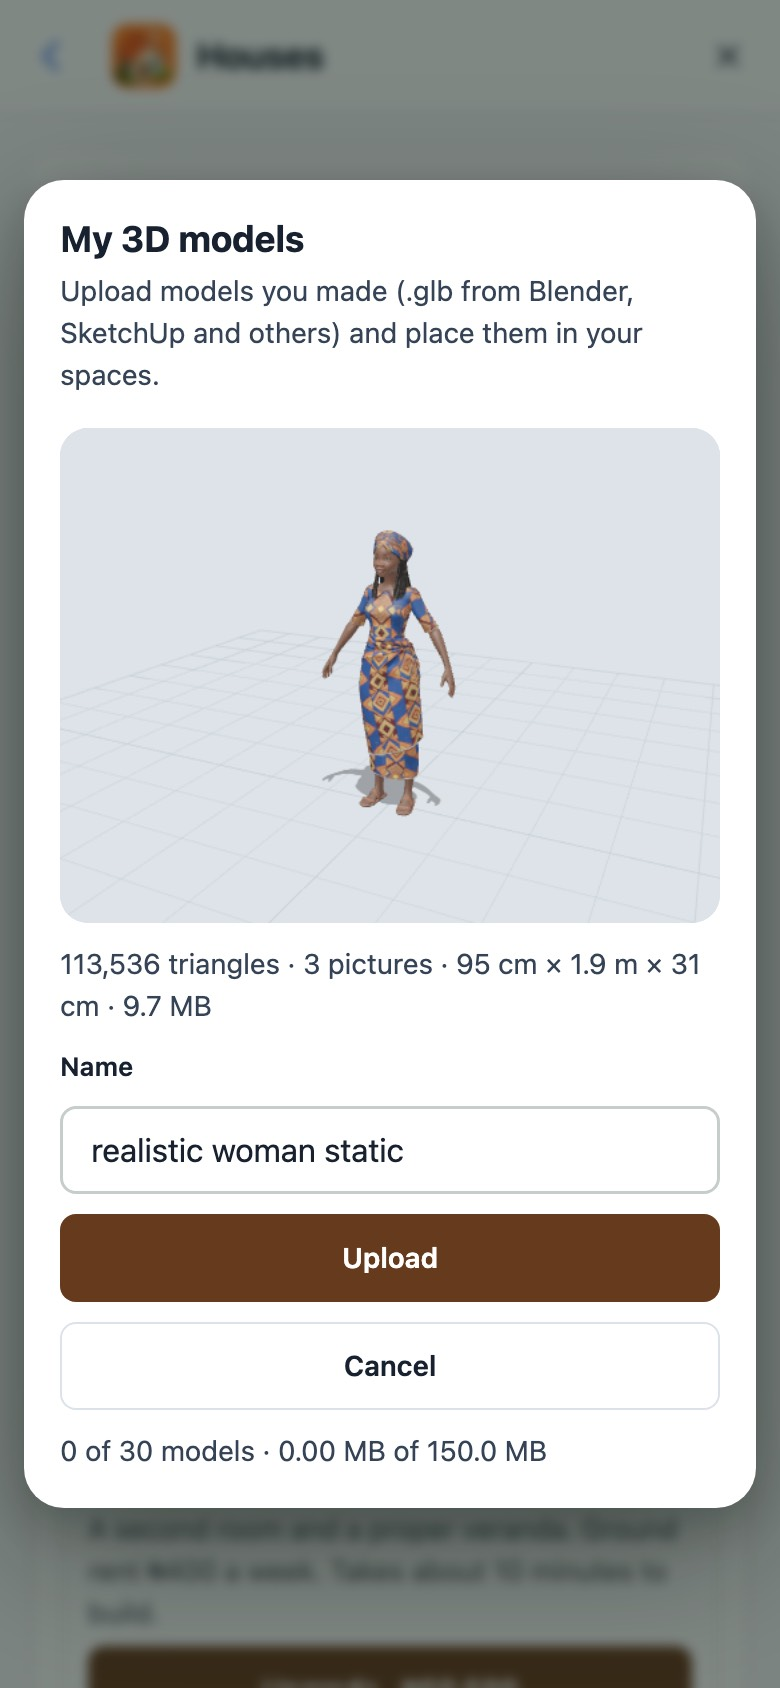
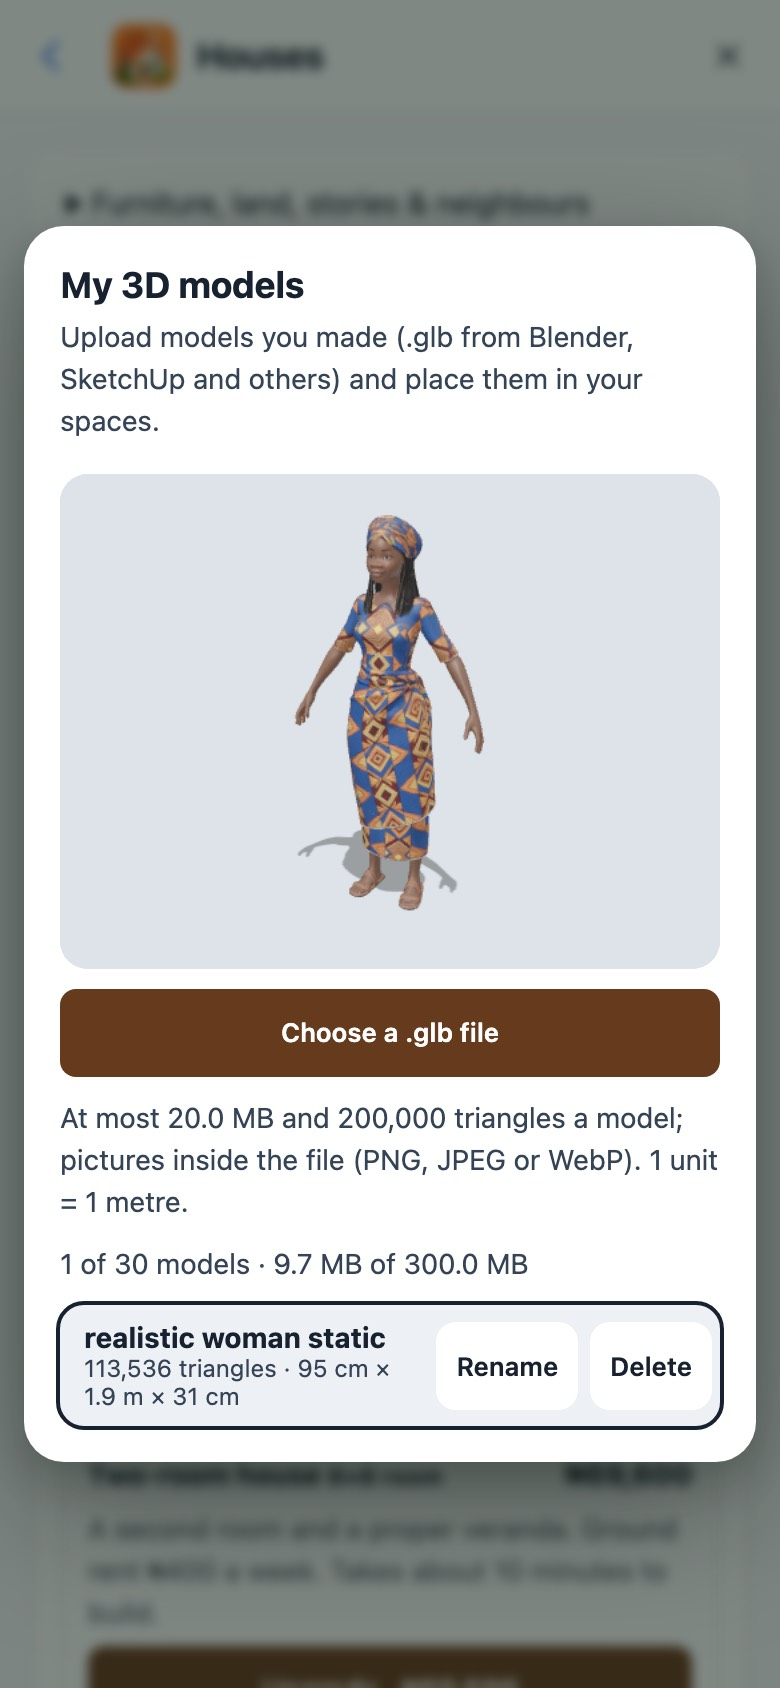
Spaces 3D: the preview loads the model loader lazily and turns with its own control, so the city scene's downloads stay the same

Changed region(s): [[0.0308, 0.0924, 0.9846, 0.8934]]

diff --git a/src/spaces/world/look.ts b/src/spaces/world/look.ts
@@ -8,8 +8,7 @@
  * with nothing before it is fetched (the server already refuses such files: src/spaces/glb.ts).
  */
 import * as THREE from 'three'
-import { GLTFLoader } from 'three/examples/jsm/loaders/GLTFLoader.js'
-import { MeshoptDecoder } from 'three/examples/jsm/libs/meshopt_decoder.module.js'
+import type { GLTFLoader } from 'three/examples/jsm/loaders/GLTFLoader.js'
 import { RoomEnvironment } from 'three/examples/jsm/environments/RoomEnvironment.js'
 
 export { THREE }
@@ -69,14 +68,16 @@ export function aimSun(look: Look, centre: THREE.Vector3, half: number): void {
   box.updateProjectionMatrix()
 }
 
-let loader: GLTFLoader | null = null
-function gltfLoader(): GLTFLoader {
-  if (loader) return loader
-  const manager = new THREE.LoadingManager()
-  // Pictures inside a .glb become blob: links the loader makes itself; anything else would be an outside fetch, so it reads nothing.
-  manager.setURLModifier((url) => (url.startsWith('blob:') || url.startsWith('data:') ? url : 'data:,'))
-  loader = new GLTFLoader(manager)
-  loader.setMeshoptDecoder(MeshoptDecoder)
+// The loader and the meshopt decoder are fetched the way the skinned body fetches them (vite.config.ts leaves them to the bundler),
+// so they stay in the body's lazy chunk and nothing the city scene loads changes.
+let loader: Promise<GLTFLoader> | null = null
+function gltfLoader(): Promise<GLTFLoader> {
+  loader ??= Promise.all([import('three/examples/jsm/loaders/GLTFLoader.js'), import('three/examples/jsm/libs/meshopt_decoder.module.js')]).then(([gltf, meshopt]) => {
+    const manager = new THREE.LoadingManager()
+    // Pictures inside a .glb become blob: links the loader makes itself; anything else would be an outside fetch, so it reads nothing.
+    manager.setURLModifier((url) => (url.startsWith('blob:') || url.startsWith('data:') ? url : 'data:,'))
+    return new gltf.GLTFLoader(manager).setMeshoptDecoder(meshopt.MeshoptDecoder)
+  })
   return loader
 }
 
@@ -86,7 +87,7 @@ export interface LoadedModel { root: THREE.Group; clips: THREE.AnimationClip[]; 
  * file are dropped: the space has its own.
  */
 export async function parseModel(bytes: ArrayBuffer, maxAnisotropy = 8): Promise<LoadedModel> {
-  const gltf = await gltfLoader().parseAsync(bytes, '')
+  const gltf = await (await gltfLoader()).parseAsync(bytes, '')
   const root = new THREE.Group()
   const content = gltf.scene
   const drop: THREE.Object3D[] = []
@@ -123,16 +124,55 @@ export function disposeTree(root: THREE.Object3D): void {
   })
 }
 
-/** A floor that only shows shadows (for a model on its own), and a soft grid under it. */
+/** A floor that only shows shadows, for a model on its own. */
 export function shadowFloor(radius = 6): THREE.Group {
   const group = new THREE.Group()
-  const floor = new THREE.Mesh(new THREE.CircleGeometry(radius, 48), new THREE.ShadowMaterial({ opacity: 0.28 }))
+  const floor = new THREE.Mesh(new THREE.PlaneGeometry(radius * 2, radius * 2), new THREE.ShadowMaterial({ opacity: 0.3 }))
   floor.rotation.x = -Math.PI / 2
   floor.receiveShadow = true
-  const grid = new THREE.GridHelper(radius * 2, Math.round(radius * 4), 0x90a4ae, 0xb0bec5)
-  ;(grid.material as THREE.Material).transparent = true
-  ;(grid.material as THREE.Material).opacity = 0.35
-  grid.position.y = 0.001
-  group.add(floor, grid)
+  group.add(floor)
   return group
+}
+
+/**
+ * Turn the camera around a point with a finger or the mouse, and come closer with a pinch or the wheel. A few lines of our own:
+ * three's OrbitControls would ride in the three chunk every city scene fetches (vite.config.ts).
+ */
+export function orbit(camera: THREE.PerspectiveCamera, element: HTMLElement, target: THREE.Vector3, { onStart }: { onStart?: () => void } = {}) {
+  let yaw = 0.6, pitch = 0.35, distance = 4, min = 0.5, max = 40
+  const pointers = new Map<number, { x: number; y: number }>()
+  let pinch = 0
+  const place = (): void => {
+    pitch = Math.max(-0.2, Math.min(1.45, pitch))
+    distance = Math.max(min, Math.min(max, distance))
+    camera.position.set(target.x + Math.sin(yaw) * Math.cos(pitch) * distance, target.y + Math.sin(pitch) * distance, target.z + Math.cos(yaw) * Math.cos(pitch) * distance)
+    camera.lookAt(target)
+  }
+  const spread = (): number => { const [a, b] = [...pointers.values()]; return a && b ? Math.hypot(a.x - b.x, a.y - b.y) : 0 }
+  const down = (event: PointerEvent): void => { element.setPointerCapture?.(event.pointerId); pointers.set(event.pointerId, { x: event.clientX, y: event.clientY }); pinch = spread(); onStart?.() }
+  const move = (event: PointerEvent): void => {
+    const last = pointers.get(event.pointerId)
+    if (!last) return
+    if (pointers.size === 1) { yaw -= (event.clientX - last.x) * 0.008; pitch += (event.clientY - last.y) * 0.006 }
+    pointers.set(event.pointerId, { x: event.clientX, y: event.clientY })
+    if (pointers.size === 2) { const now = spread(); if (pinch > 0 && now > 0) distance *= pinch / now; pinch = now }
+    place()
+  }
+  const up = (event: PointerEvent): void => { pointers.delete(event.pointerId); pinch = spread() }
+  const wheel = (event: WheelEvent): void => { event.preventDefault(); distance *= Math.exp(event.deltaY * 0.001); onStart?.(); place() }
+  element.addEventListener('pointerdown', down)
+  element.addEventListener('pointermove', move)
+  element.addEventListener('pointerup', up)
+  element.addEventListener('pointercancel', up)
+  element.addEventListener('wheel', wheel, { passive: false })
+  place()
+  return {
+    /** Look at `centre` from `far` metres, keeping the angle. */
+    frame(centre: THREE.Vector3, far: number, near = far / 8, farthest = far * 4): void { target.copy(centre); distance = far; min = near; max = farthest; place() },
+    spin(radians: number): void { yaw += radians; place() },
+    dispose(): void {
+      element.removeEventListener('pointerdown', down); element.removeEventListener('pointermove', move)
+      element.removeEventListener('pointerup', up); element.removeEventListener('pointercancel', up); element.removeEventListener('wheel', wheel)
+    },
+  }
 }

diff --git a/src/app/features/spaces/ModelPreview.vue b/src/app/features/spaces/ModelPreview.vue
@@ -12,18 +12,13 @@ let showing: ((bytes: ArrayBuffer) => Promise<void>) | null = null
 let gone = false
 
 onMounted(async () => {
-  const [{ createLook, parseModel, shadowFloor, disposeTree, aimSun, THREE }, { OrbitControls }] = await Promise.all([
-    import('../../../spaces/world/look.ts'), import('three/examples/jsm/controls/OrbitControls.js'),
-  ])
+  const { createLook, parseModel, shadowFloor, disposeTree, aimSun, orbit, THREE } = await import('../../../spaces/world/look.ts')
   if (gone || !canvas.value) return
   const element = canvas.value
   const look = createLook(element, { quality: 'normal', background: '#dde3e8' })
   const camera = new THREE.PerspectiveCamera(40, 1, 0.05, 200)
-  const controls = new OrbitControls(camera, element)
-  controls.enableDamping = true
-  controls.autoRotate = true
-  controls.autoRotateSpeed = 1.2
-  controls.addEventListener('start', () => { controls.autoRotate = false })
+  let spinning = true
+  const controls = orbit(camera, element, new THREE.Vector3(), { onStart: () => { spinning = false } })
   const floor = shadowFloor(4)
   look.scene.add(floor)
   let current: InstanceType<typeof THREE.Group> | null = null
@@ -41,8 +36,9 @@ onMounted(async () => {
   let frame = 0
   const tick = (): void => {
     frame = requestAnimationFrame(tick)
-    mixer?.update(Math.min(clock.getDelta(), 0.1))
-    controls.update()
+    const dt = Math.min(clock.getDelta(), 0.1)
+    mixer?.update(dt)
+    if (spinning) controls.spin(dt * 0.25)
     look.renderer.render(look.scene, camera)
   }
   tick()
@@ -59,13 +55,10 @@ onMounted(async () => {
       const radius = Math.max(model.size.x, model.size.y, model.size.z, 0.2)
       floor.scale.setScalar(Math.max(1, radius / 3))
       aimSun(look, new THREE.Vector3(0, model.size.y / 2, 0), radius * 1.2)
-      controls.target.set(0, model.size.y / 2, 0)
-      // Far enough that the whole model fits the view, from a little above and to one side.
-      const distance = (radius / 2) / Math.tan((camera.fov * Math.PI) / 360) * 1.25
-      camera.position.set(distance * 0.55, model.size.y / 2 + distance * 0.25, distance * 0.8)
       camera.near = radius / 100; camera.far = radius * 50
       camera.updateProjectionMatrix()
-      controls.minDistance = radius * 0.4; controls.maxDistance = radius * 6
+      // Far enough that the whole model fits the view.
+      controls.frame(new THREE.Vector3(0, model.size.y / 2, 0), (radius / 2) / Math.tan((camera.fov * Math.PI) / 360) * 1.25, radius * 0.4, radius * 6)
       status.value = ''
     } catch {
       status.value = ''

diff --git a/server/registry.test.ts b/server/registry.test.ts
@@ -116,7 +116,7 @@ test('route registry rejects duplicate and malformed routes at start-up and list
   const CORE = ['GET /api/characters', 'GET /api/health', 'GET /api/life', 'GET /api/session', 'GET /api/voice-config', 'POST /api/action', 'POST /api/characters/switch', 'POST /api/session'];
   for (const key of CORE) assert.ok(keys.includes(key), `core route ${key} is registered`);
   // Every module registers only under its own namespace; the core module is exactly the core set.
-  const NAMESPACES = ['', '/api/account', '/api/social/', '/api/civic/', '/api/support/', '/api/mod/', '/api/world/', '/api/world/land', '/api/growth/', '/api/mod/growth/', '/api/campus', '/api/projects', '/api/retention', '/api/world/pulse', '/api/world/festivals', '/api/world/feed', '/api/world/', '/api/world/pray', '/api/', '/api/world/', '/api/social/ping', '/api/social/visit', '/api/places', '/api/business/', '/api/commerce', '/api/mod/business/', '/api/market/', '/api/mod/market/', '/api/notice', '/api/world/badges', '/api/companion/', '/api/admin/', '/api/', '/api/mod/store', '/api/politics/', '/api/world/records', '/api/trust/', '/api/real-value/', '/api/street/', '/api/living-world/', '/api/showcase/', '/api/mod/showcase', '/api/agents', '/api/mod/agents', '/api/world/legacy', '/api/profiles/', '/api/arena/', '/api/clans/', '/api/story/', '/api/spaces/'];
+  const NAMESPACES = ['', '/api/account', '/api/social/', '/api/civic/', '/api/support/', '/api/mod/', '/api/world/', '/api/world/land', '/api/growth/', '/api/mod/growth/', '/api/campus', '/api/projects', '/api/retention', '/api/world/pulse', '/api/world/festivals', '/api/world/feed', '/api/world/', '/api/world/pray', '/api/', '/api/world/', '/api/social/ping', '/api/social/visit', '/api/places', '/api/business/', '/api/commerce', '/api/mod/business/', '/api/market/', '/api/mod/market/', '/api/notice', '/api/world/badges', '/api/companion/', '/api/admin/', '/api/', '/api/mod/store', '/api/politics/', '/api/world/records', '/api/trust/', '/api/real-value/', '/api/street/', '/api/living-world/', '/api/showcase/', '/api/mod/showcase', '/api/agents', '/api/mod/agents', '/api/world/legacy', '/api/profiles/', '/api/arena/', '/api/clans/', '/api/story/', '/api/spaces/', '/api/mod/spaces/'];
   assert.equal(ROUTE_MODULES.length, NAMESPACES.length);
   ROUTE_MODULES.forEach((module, index) => {
     const own = Object.keys(module(ctx) || {});

diff --git a/docs/REFERENCE.md b/docs/REFERENCE.md
@@ -172,6 +172,7 @@ The client still loads if the server is unreachable, but it is **read-only**: it
 - **Gifts of naira between friends,** deliberately limited: only money earned from work (shift pay and paid gigs — never start cash, the loan, goal rewards or prizes), ₦5,000 a gift, three gifts and ₦10,000 a day. There is no waiting period on a new character or a new friendship. One request id moves the money once, in both ledgers. The gift lands in your friend's life in the city you sent it from if they have one there, otherwise in the life they played most recently; if they have no life anywhere it is refused before you are charged.
 - **Design a space with AI, or paste a plan.** In Houses (Furniture → Design with AI) or a group room's Build tab, a player describes a home or room in their own words and a language model chooses the pieces room by room; the game lays them out by its own placement rules, shows a top-down drawing and the price, and Apply buys through the ordinary furniture actions. The Import tab takes a pasted Space Plan (the same JSON the Allworld skill for Claude writes). Off when the server has no model key. See [SPACES.md](SPACES.md).
 - **The Allworld skill for Claude.** `skills/allworld-spaces/` teaches Claude to design a Space Plan, check it and import it: through the agent tools `check_space` and `import_space` with a player's agent key, or by pasting it into the game's Import box. See [SKILLS.md](SKILLS.md).
+- **Your own 3D models.** Houses → My 3D models: a player with an account uploads a `.glb` (at most 20 MB and 200,000 triangles, everything embedded), sees it in 3D with realistic lighting first, and keeps up to 30. The server checks every file byte by byte, keeps it once by its hash (files on disk, or R2 on Cloudflare), filters its name, and hides a model three players report until an operator reviews it. Off until an operator turns on `spacesModels`. See [SPACES-3D.md](SPACES-3D.md).
 - **Player-made games.** Games → Made by players: small real-time games written as data (`src/arena/lite/`) and played by one fixed engine. There are six built-in games, players can paste their own (or Claude imports them with `import_game`), and friends play by room code. Bigger ideas go through a reviewed cartridge pull request, with `src/arena/examples/coconut.ts` as the template. See [SPACES.md](SPACES.md) "Lite games" and [CARTRIDGES.md](CARTRIDGES.md) "Player-made games".
 - **Places: the Square and group rooms.** One Square for the whole world, and a room for every group chat that its members furnish together and can open to visitors with a link. Going there is free from any city and the life does not move. Voice, chat, blocks and reports work as in a venue. See [PLACES.md](PLACES.md).
 - **Jail you can play.** Prison jobs and community service take minutes off a sentence (capped each day), parole opens at half the sentence for a clean record, and friends can visit in visiting hours; the sentence still ends by time, bail or a court as before. See [JAIL.md](JAIL.md).
